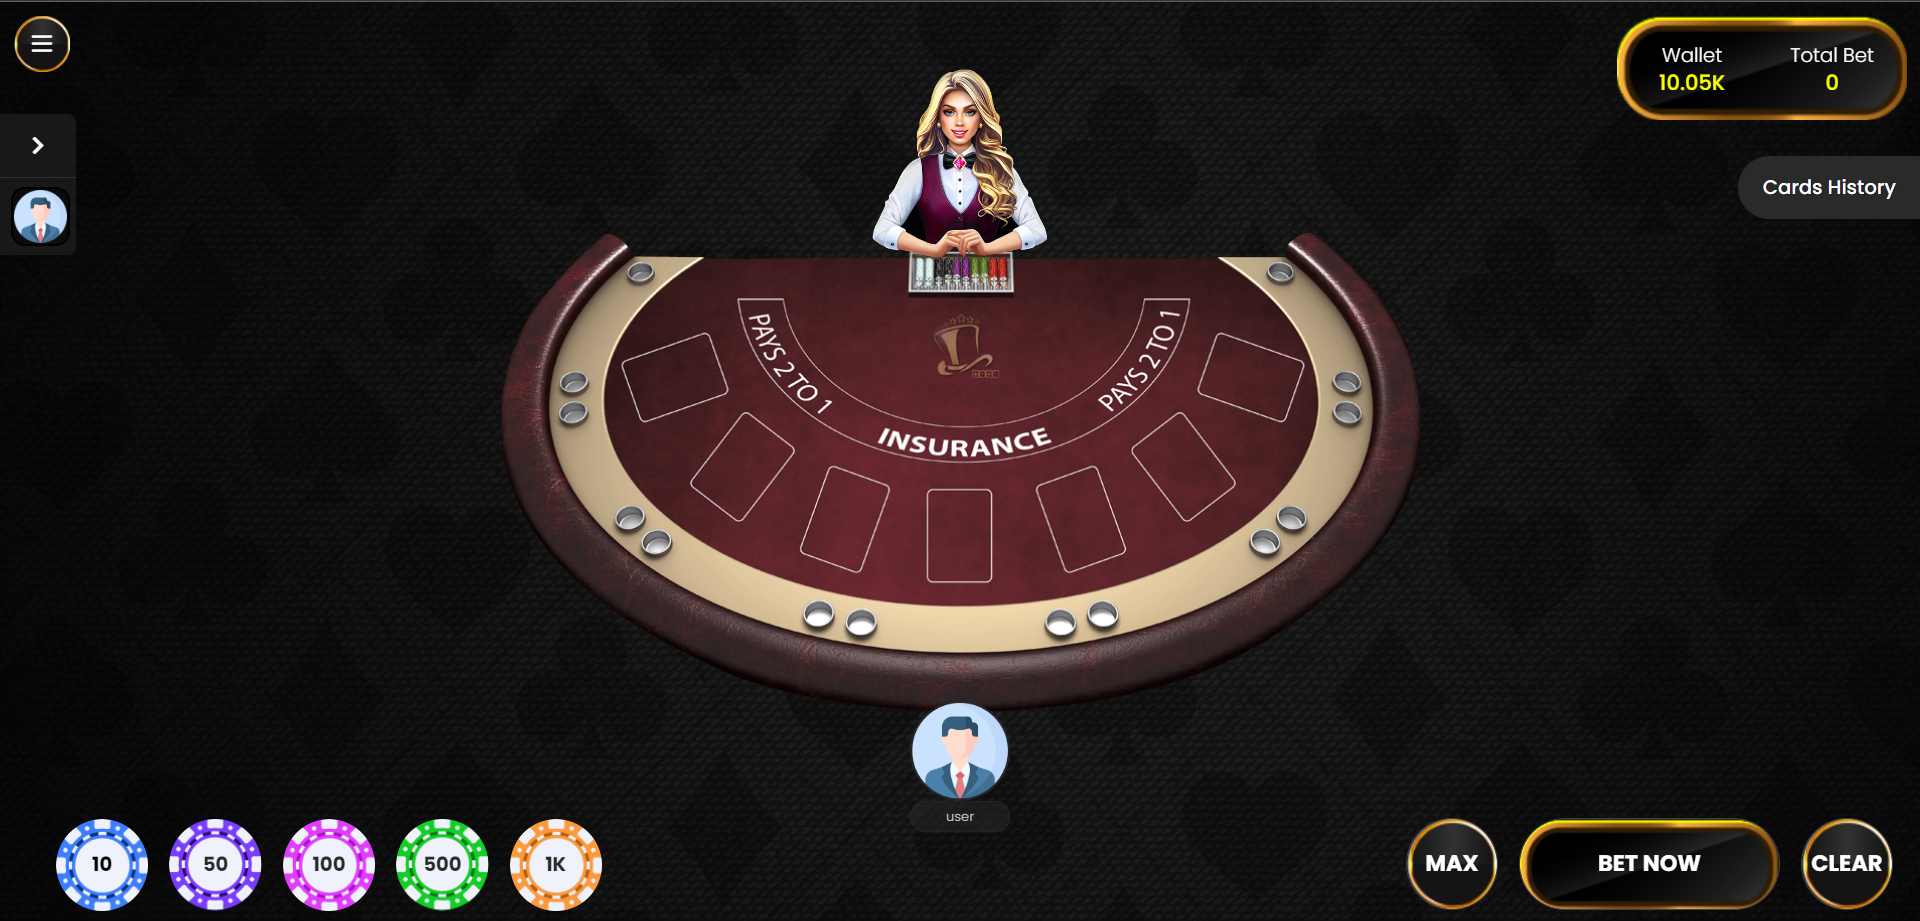
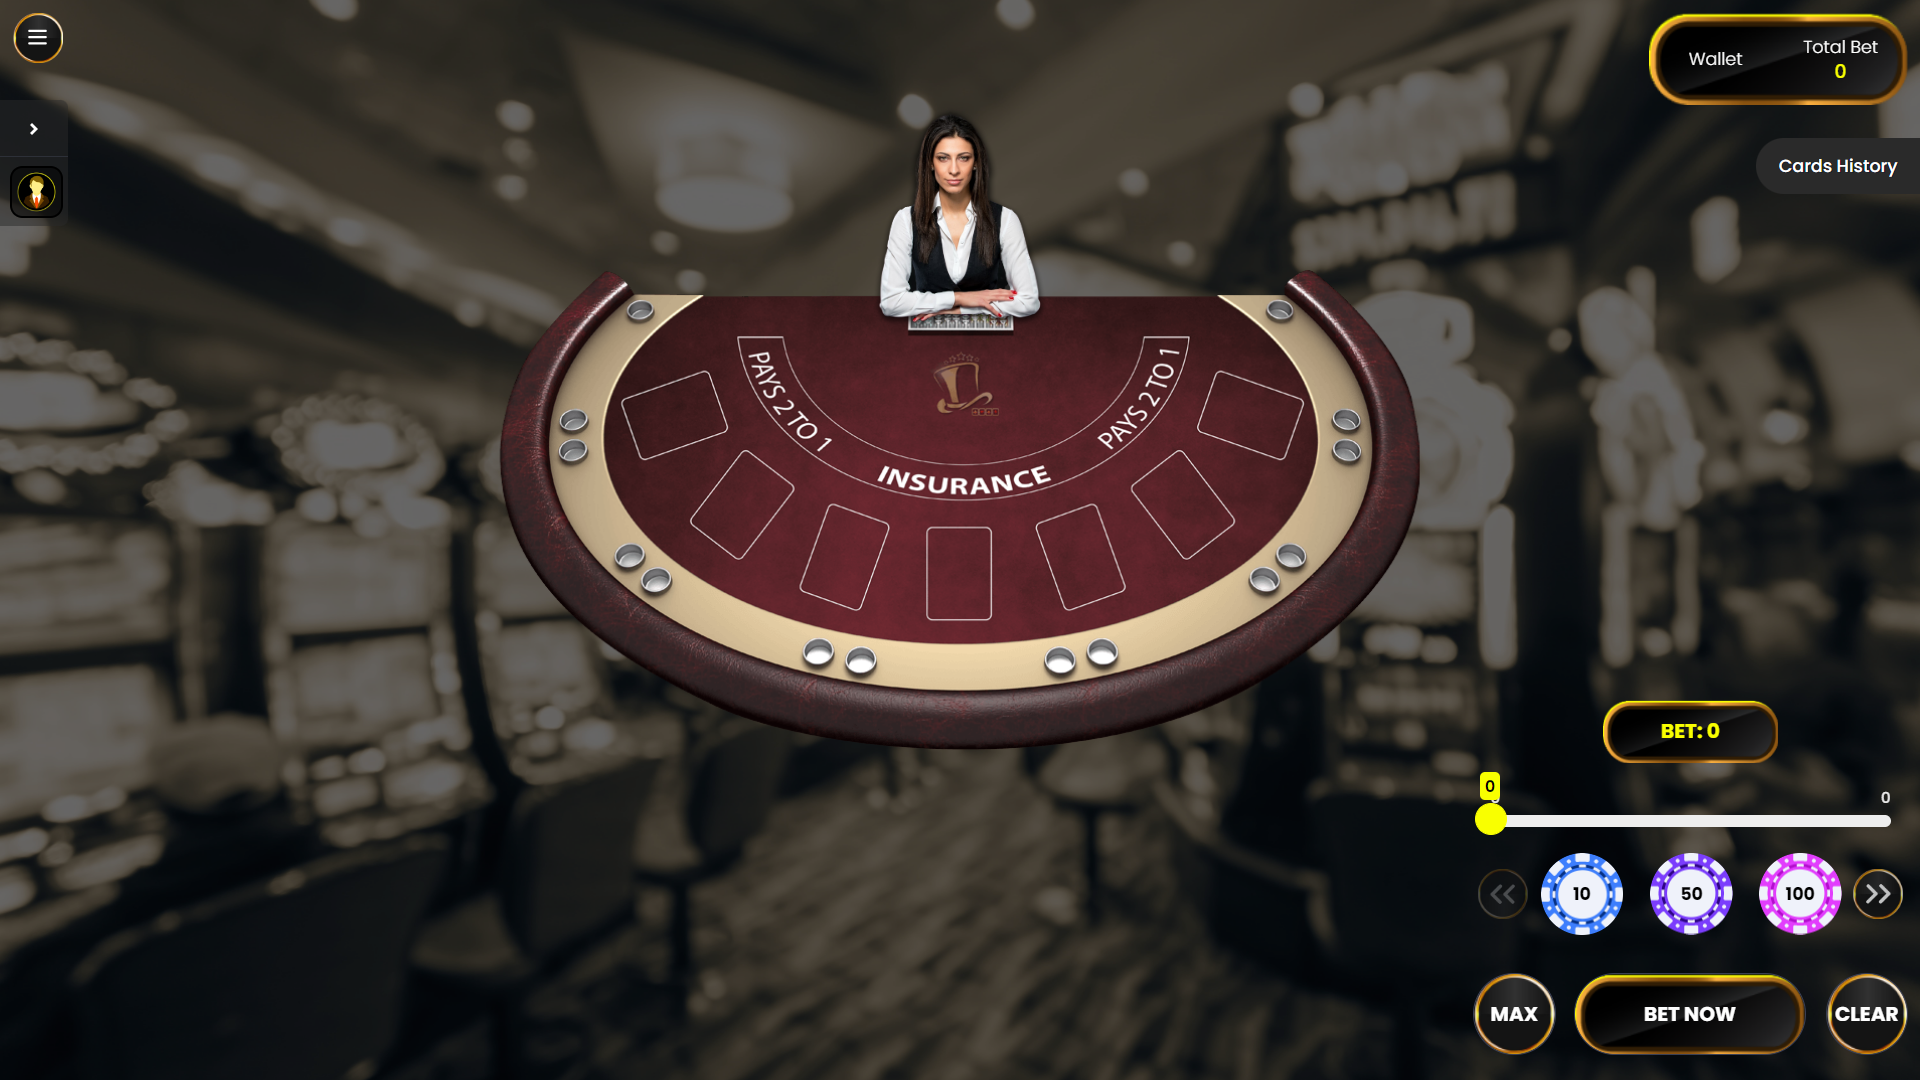
updated background image and tour image

diff --git a/src/css/dist/blackjack.css b/src/css/dist/blackjack.css
@@ -6,7 +6,7 @@
 }
 
 .blackjack-game {
-  background: url(../../imgs/blackjack/blackjackBg1.png);
+  background: url(../../imgs/blackjack/blackjackBg1.jpg);
   background-size: cover;
   background-repeat: no-repeat;
   background-position: center;
